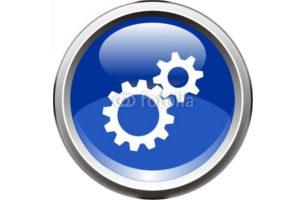
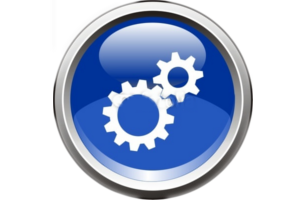
Correction d'un oubli, changement du mode "triche" pour laisser la possibilité de modifier la carte detecté. amelioration des image

Changed region(s): [[0.39, 0.48, 0.66, 0.54]]

diff --git a/src/logiqueDeJeux/BeloteCoinche.java b/src/logiqueDeJeux/BeloteCoinche.java
@@ -24,18 +24,28 @@ public class BeloteCoinche implements GlobalListener
 		String suit = carte.getCarte().getSuit();
 		System.out.println(suit);
 		
-		int n = JOptionPane.showConfirmDialog(
+		String newCarte =(String) JOptionPane.showInputDialog(
 			    null,
-			    "Carte: "+label+" "+suit,
+			    "Carte: ",
 			    "New Card",
-			    JOptionPane.YES_NO_OPTION);
+			    JOptionPane.PLAIN_MESSAGE,
+			    null,
+			    null,
+			    label+" "+suit );
 		
+		carte.setLabel(label);
+		carte.setSuit(suit);
 		
-		if (n==0) 
-		{
-			synchronized (machine) {
-				machine.eventCarte(carte);
-			}
+		synchronized (machine) {
+			machine.eventCarte(carte);
+		}
+		
+	}
+	
+	public void nouvelleCarteJoueurDistant(CardEvent carte)
+	{
+		synchronized (machine) {
+			machine.eventCarte(carte);
 		}
 	}
 

diff --git a/src/machineEtat/CardEvent.java b/src/machineEtat/CardEvent.java
@@ -1,18 +1,30 @@
 package machineEtat;
 
 import structure.Carte;
+import structure.CarteInterface;
 
 public class CardEvent 
 {
-	private Carte carte;
+	private CarteInterface carte;
 	
-	public CardEvent(Carte carte)
+	public CardEvent(CarteInterface carte)
 	{
 		this.carte= carte;
 	}
 
-	public Carte getCarte() {
+	public CarteInterface getCarte() {
 		return carte;
+	}
+
+	public void setLabel(String label) 
+	{
+		carte.setLabelNum(label);
+		
+	}
+
+	public void setSuit(String suit) 
+	{
+		carte.setSuit(suit);
 	}
 	
 }

diff --git a/src/serveur/Serveur.java b/src/serveur/Serveur.java
@@ -25,9 +25,9 @@ public class Serveur
 	    try 
 	    {
 	    	ServerSocket socketserver = new ServerSocket(6665);
-	    	System.out.println("attente de conection");
+	    	System.out.println("attente de connexion");
 	    	this.socket = socketserver.accept();
-	    	System.out.println("connection etablie");
+	    	System.out.println("connexion etablie");
 	    	BufferedReader
 	    	in = new BufferedReader(new InputStreamReader(socket.getInputStream()));
 	    	Thread t1 = new Thread(new ServeurReception(in, belote));

diff --git a/src/machineEtat/StateMachine.java b/src/machineEtat/StateMachine.java
@@ -1,6 +1,5 @@
 package machineEtat;
 
-import iug.ViewController;
 import iug.ViewControllerInterface;
 import structure.AnnonceInterface;
 import structure.CarteList;
@@ -280,6 +279,11 @@ public class StateMachine
 			 this.state = State.AnnonceAFaire;
 			 break;
 		 
+		 case AnnoncePasse1:
+			 etat.initAnnonce(vci);
+			 this.state = State.AnnonceAFaire;
+			 break;
+			 
 		 case AnnoncePasse2:
 			 etat.initAnnonce(vci);
 			 this.state = State.AnnonceAFaire;

diff --git a/src/serveur/ServeurReception.java b/src/serveur/ServeurReception.java
@@ -108,7 +108,7 @@ public class ServeurReception implements Runnable
 			}
 			
 			Carte carteb = new Carte(valeur, couleur, (EtatDuJeu)belote.getEtat());
-			belote.nouvelleCarte(new CardEvent(carteb));
+			belote.nouvelleCarteJoueurDistant(new CardEvent(carteb));
 		} 
 		catch (IOException e) 
 		{

diff --git a/src/menus/MainMenu.java b/src/menus/MainMenu.java
@@ -66,6 +66,13 @@ public class MainMenu implements GlobalListener
 	{
 		vci.init(liste.get(0).getImage(), liste.get(1).getImage(), liste.get(2).getImage());
 	}
+
+	@Override
+	public void nouvelleCarteJoueurDistant(CardEvent carte) 
+	{
+		//nothing
+		
+	}
 	
 	
 	

diff --git a/src/logiqueDeJeux/GlobalListener.java b/src/logiqueDeJeux/GlobalListener.java
@@ -7,6 +7,7 @@ import machineEtat.*;
 public interface GlobalListener extends EventListener
 {
 	void nouvelleCarte(CardEvent carte);
+	void nouvelleCarteJoueurDistant(CardEvent carte);
 	void nouveauGeste(MouvementEvent mouvement);
 	void finPli();
 }

diff --git a/src/structure/Carte.java b/src/structure/Carte.java
@@ -86,5 +86,13 @@ public class Carte implements CarteInterface
 		}
 	}
 
+	public void setLabelNum(String labelNum) {
+		this.labelNum = labelNum;
+	}
+
+	public void setSuit(String suit) {
+		this.suit = suit;
+	}
+
 
 }

diff --git a/src/structure/CarteInterface.java b/src/structure/CarteInterface.java
@@ -19,4 +19,8 @@ public interface CarteInterface
 
 	//donne le rang de la carte en fonction de sa valeur
 	public int getRang();
+	
+	public void setLabelNum(String label);
+	
+	public void setSuit(String suit);
 }

diff --git a/src/menus/MenuOptions.java b/src/menus/MenuOptions.java
@@ -87,6 +87,12 @@ public class MenuOptions implements GlobalListener
 		vci.modeOption();
 		vci.option(1);
 	}
+
+	@Override
+	public void nouvelleCarteJoueurDistant(CardEvent carte) 
+	{
+		//nothing
+	}
 	
 	
 	
